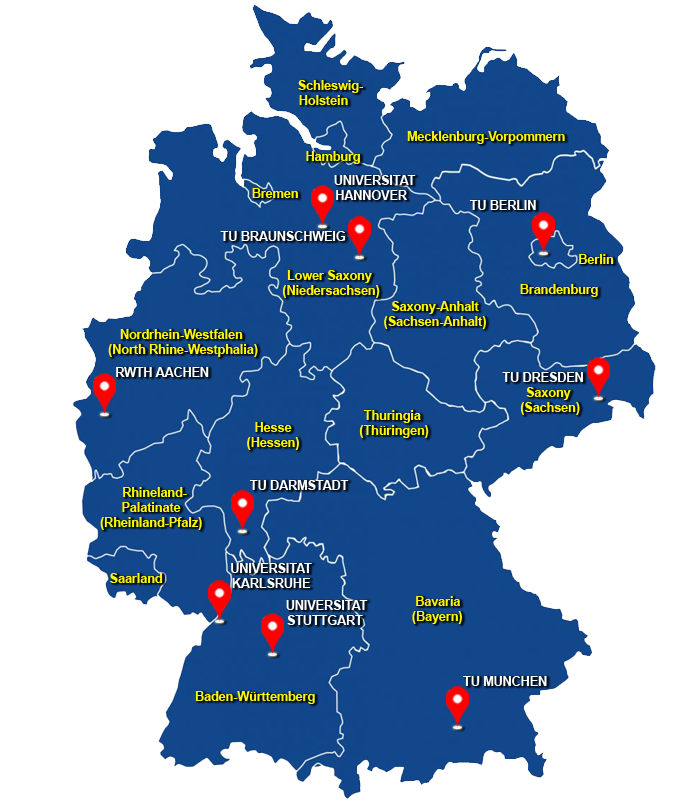
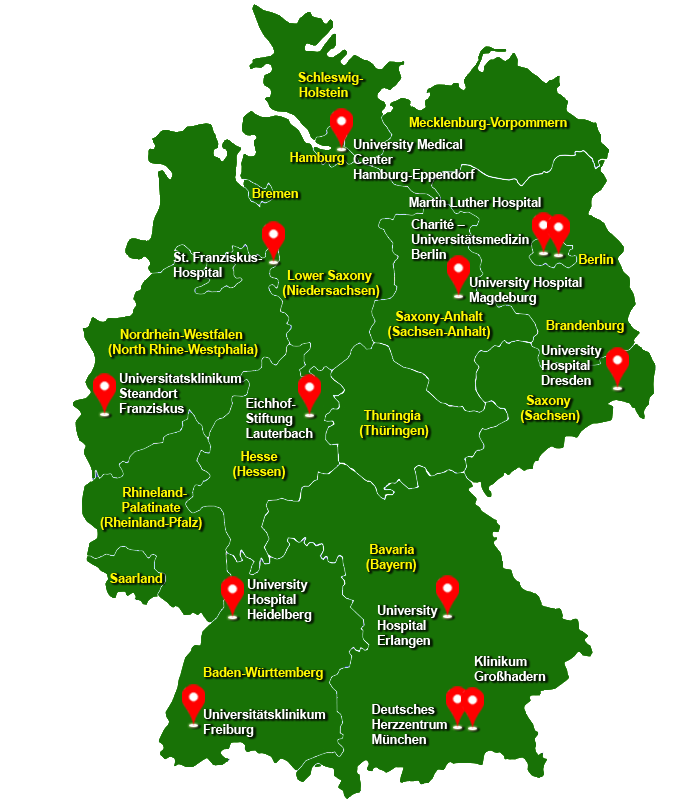
new7

diff --git a/mission-germany/mission-germany/index2.html b/mission-germany/mission-germany/index2.html
@@ -57,7 +57,7 @@
                 </div>
               
                   <div class="col-12 col-md-5" id="changemap">
-                      <img src="images/map3.png" id="changemap" alt="" style="margin-right: 8vw; margin-top:30px">			   
+                      <img src="images/map2.png" id="changemap" alt="" style="margin-right: 8vw; margin-top:30px">			   
                   </div>
   
               </div>
@@ -100,7 +100,7 @@
 					</a>
     			</div>
     			<div class="col-md-6 col-lg ftco-animate">
-					<a href="index2.html" class="partner d-flex justify-content-center"  style="padding: 0px;">
+					<a href="index3.html" class="partner d-flex justify-content-center"  style="padding: 0px;">
 						<div class="d4" onclick="change1()">
 							<img src="images/partner-4.png" class="img-fluid" alt="Colorlib Template" >
 								<div style="text-align: center; color: whitesmoke;">

diff --git a/mission-germany/mission-germany/index.html b/mission-germany/mission-germany/index.html
@@ -100,7 +100,7 @@
 					</a>
     			</div>
     			<div class="col-md-6 col-lg ftco-animate">
-					<a href="index2.html" class="partner d-flex justify-content-center"  style="padding: 0px;">
+					<a href="index3.html" class="partner d-flex justify-content-center"  style="padding: 0px;">
 						<div class="d4" onclick="change1()">
 							<img src="images/partner-4.png" class="img-fluid" alt="Colorlib Template" >
 								<div style="text-align: center; color: whitesmoke;">

diff --git a/mission-germany/mission-germany/index5.html b/mission-germany/mission-germany/index5.html
@@ -100,7 +100,7 @@
 					</a>
     			</div>
     			<div class="col-md-6 col-lg ftco-animate">
-					<a href="index2.html" class="partner d-flex justify-content-center"  style="padding: 0px;">
+					<a href="index3.html" class="partner d-flex justify-content-center"  style="padding: 0px;">
 						<div class="d4" onclick="change1()">
 							<img src="images/partner-4.png" class="img-fluid" alt="Colorlib Template" >
 								<div style="text-align: center; color: whitesmoke;">

diff --git a/mission-germany/mission-germany/index3.html b/mission-germany/mission-germany/index3.html
@@ -57,7 +57,7 @@
                 </div>
               
                   <div class="col-12 col-md-5" id="changemap">
-                      <img src="images/map1.png" id="changemap" alt="" style="margin-right: 8vw; margin-top:30px">			   
+                      <img src="images/map3.png" id="changemap" alt="" style="margin-right: 8vw; margin-top:30px">			   
                   </div>
   
               </div>
